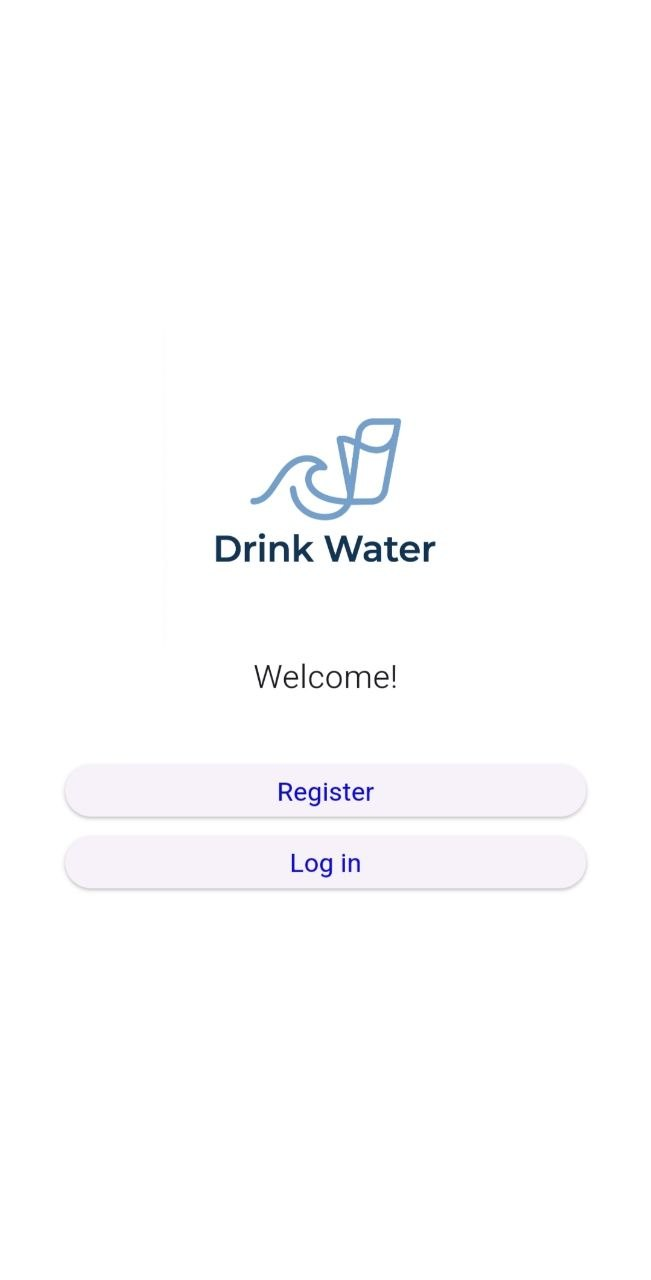
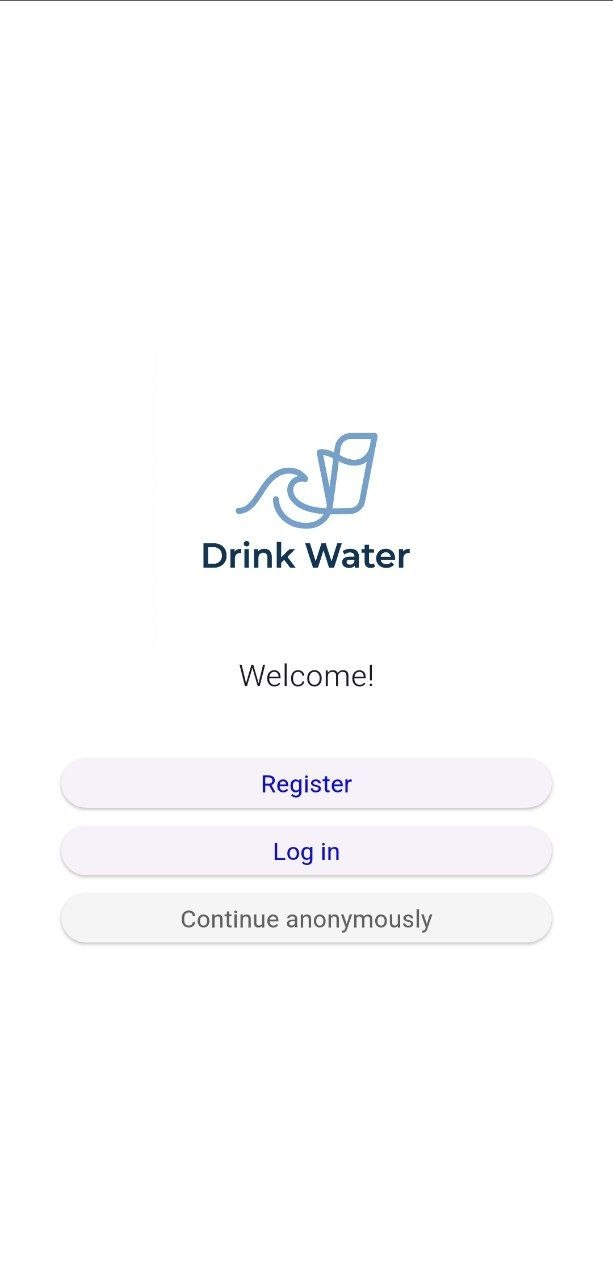
fix small bags

diff --git a/lib/features/user/data/repositories/user_repository.dart b/lib/features/user/data/repositories/user_repository.dart
@@ -142,7 +142,7 @@ class UserRepository extends ChangeNotifier implements IUserRepository {
     try {
       await _auth.signInAnonymously();
 
-      const defaultName = 'User';
+      final defaultName = loc.anonymousUserName;
       const defaultWeight = 70.0;
 
       currentUser = UserData(name: defaultName, weight: defaultWeight);
@@ -330,7 +330,12 @@ class UserRepository extends ChangeNotifier implements IUserRepository {
     _setError(null);
 
     try {
-      await _auth.signOut();
+      final firebaseUser = _auth.currentUser;
+      if (firebaseUser != null && firebaseUser.isAnonymous) {
+        await firebaseUser.delete();
+      } else {
+        await _auth.signOut();
+      }
       await clear();
     } catch (e) {
       _setError("Error signing out of account");

diff --git a/lib/core/l10n/app_localizations.dart b/lib/core/l10n/app_localizations.dart
@@ -571,6 +571,12 @@ abstract class AppLocalizations {
   /// In en, this message translates to:
   /// **'English'**
   String get english;
+
+  /// No description provided for @anonymousUserName.
+  ///
+  /// In en, this message translates to:
+  /// **'Guest'**
+  String get anonymousUserName;
 }
 
 class _AppLocalizationsDelegate

diff --git a/lib/core/l10n/app_localizations_ru.dart b/lib/core/l10n/app_localizations_ru.dart
@@ -258,4 +258,7 @@ class AppLocalizationsRu extends AppLocalizations {
 
   @override
   String get english => 'Английский';
+
+  @override
+  String get anonymousUserName => 'Гость';
 }

diff --git a/lib/core/l10n/app_localizations_en.dart b/lib/core/l10n/app_localizations_en.dart
@@ -259,4 +259,7 @@ class AppLocalizationsEn extends AppLocalizations {
 
   @override
   String get english => 'English';
+
+  @override
+  String get anonymousUserName => 'Guest';
 }

diff --git a/README.ru.md b/README.ru.md
@@ -28,7 +28,7 @@
 
 ## Функционал
 
-- Беспарольная аутентификация через ссылку, которая приходит на почту
+- Беспарольная аутентификация через ссылку, которая приходит на почту, или мгновенная анонимный доступ
 - Регистрация пользователя с расчётом дневной нормы воды по формуле (вес × 33 мл)
 - Отслеживание выпитой воды в реальном времени с индикатором прогресса
 - История потребления воды по дням с календарём на неделю

diff --git a/README.md b/README.md
@@ -27,7 +27,7 @@ A mobile app for tracking water consumption throughout the day. Developed with F
 
 ## Functionality
 
-- Passwordless authentication via magic link (email)
+- Passwordless authentication via magic link (email) or instant anonymous login
 - User registration with calculation of daily water intake by formula (weight × 33 ml)
 - Real-time tracking of water consumed with progress bar
 - Water consumption history by day with weekly calendar
